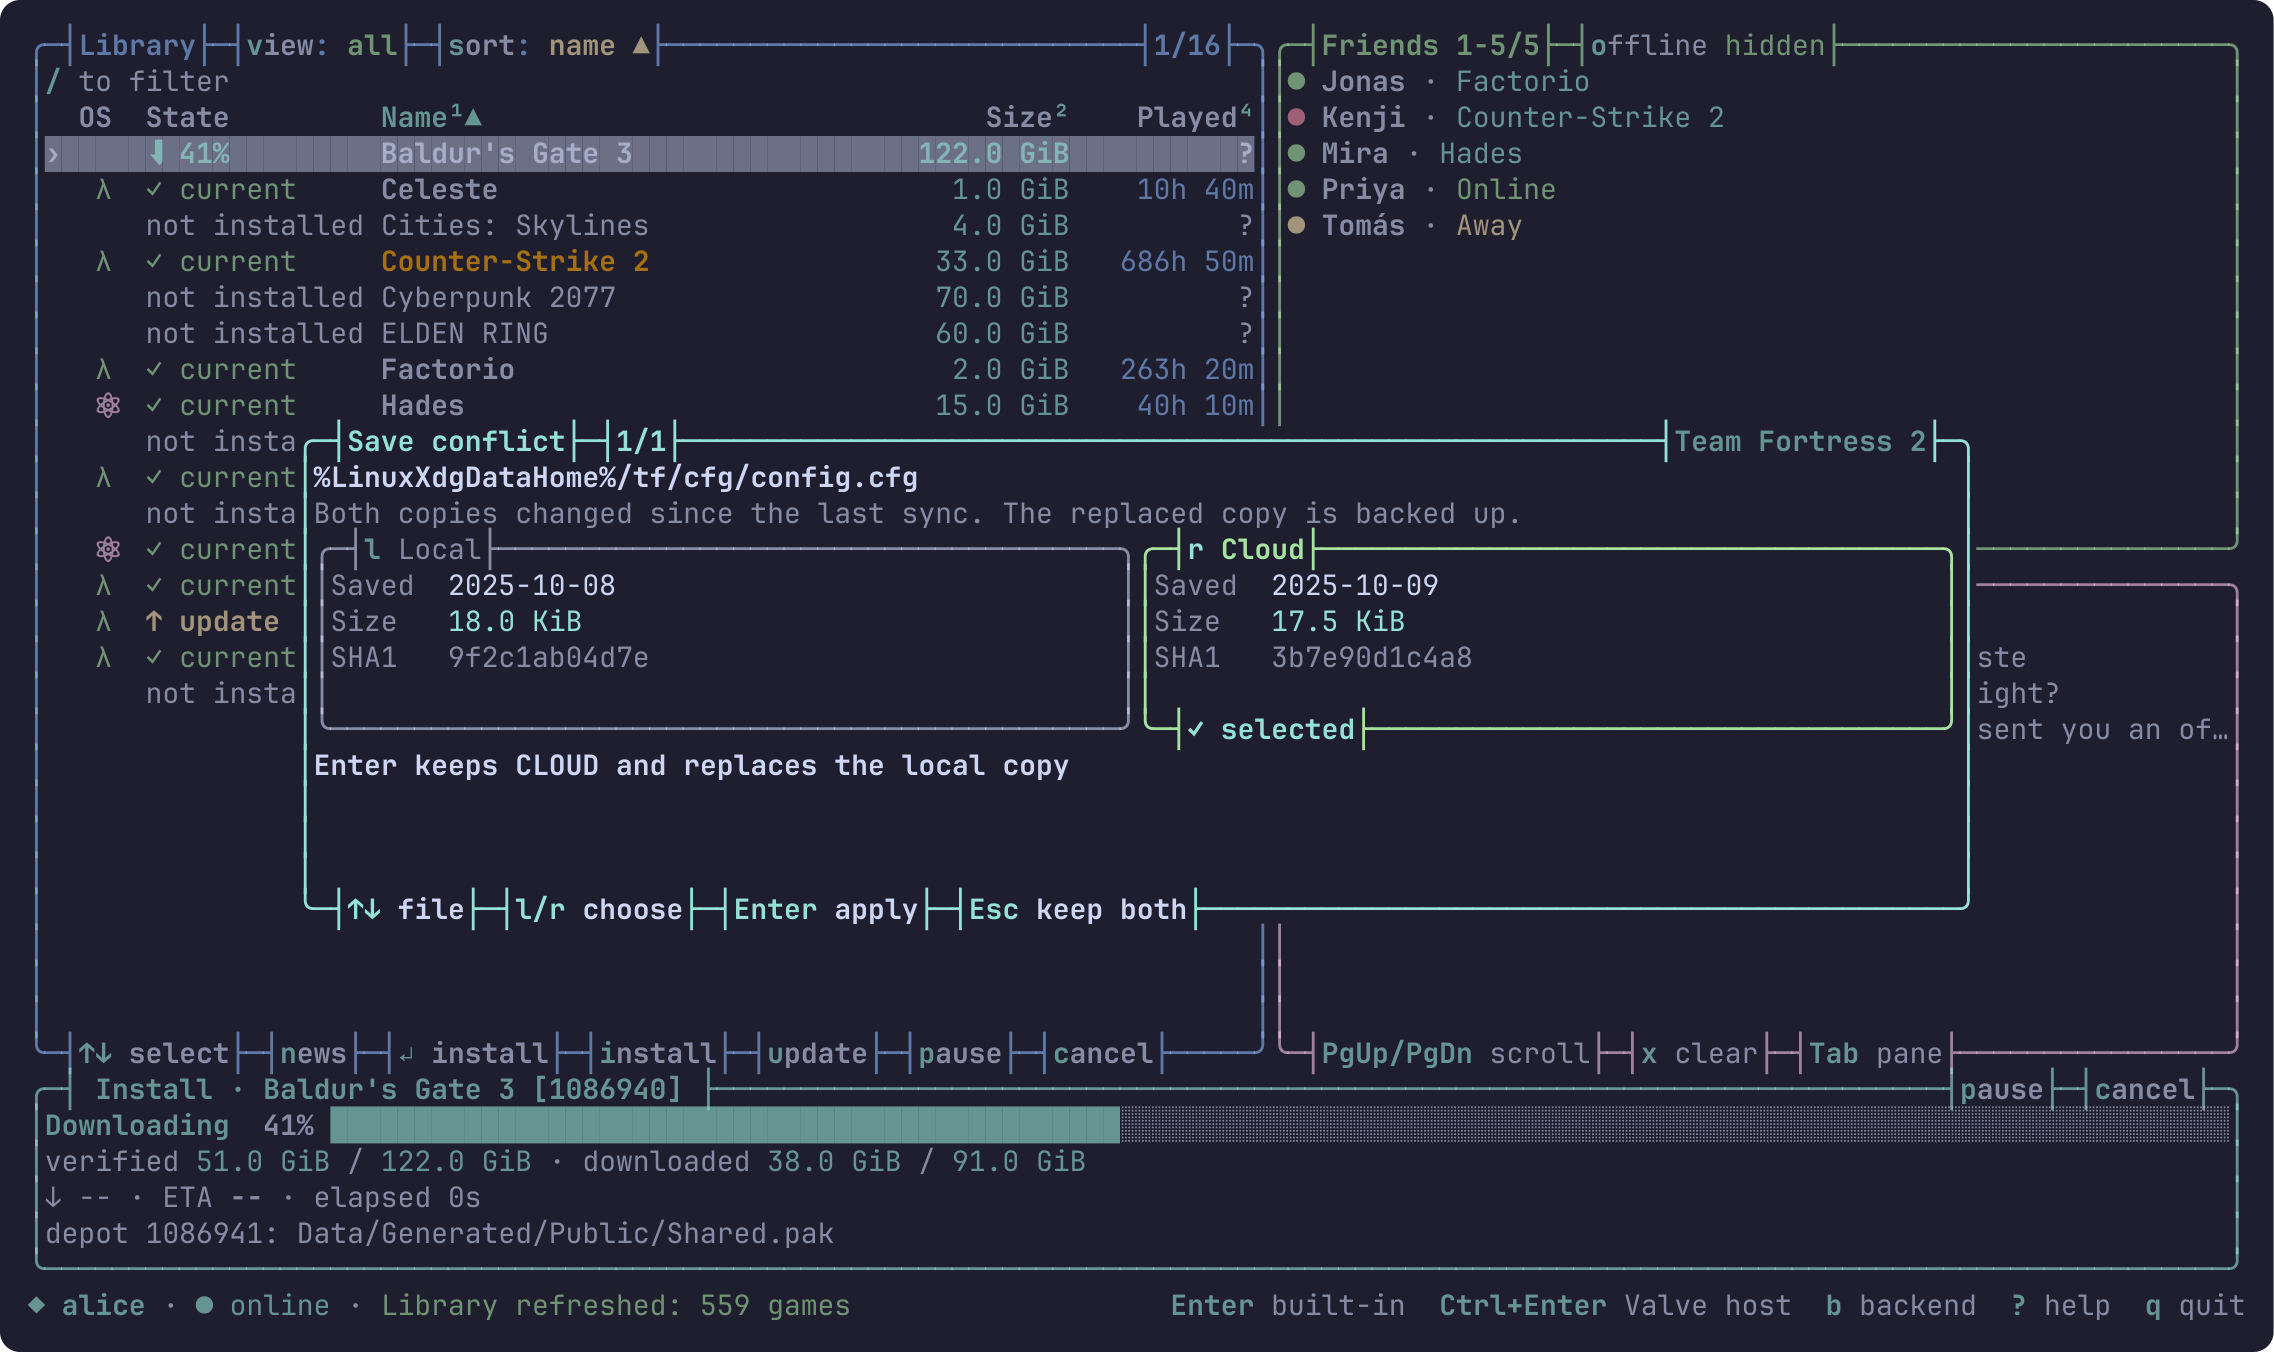
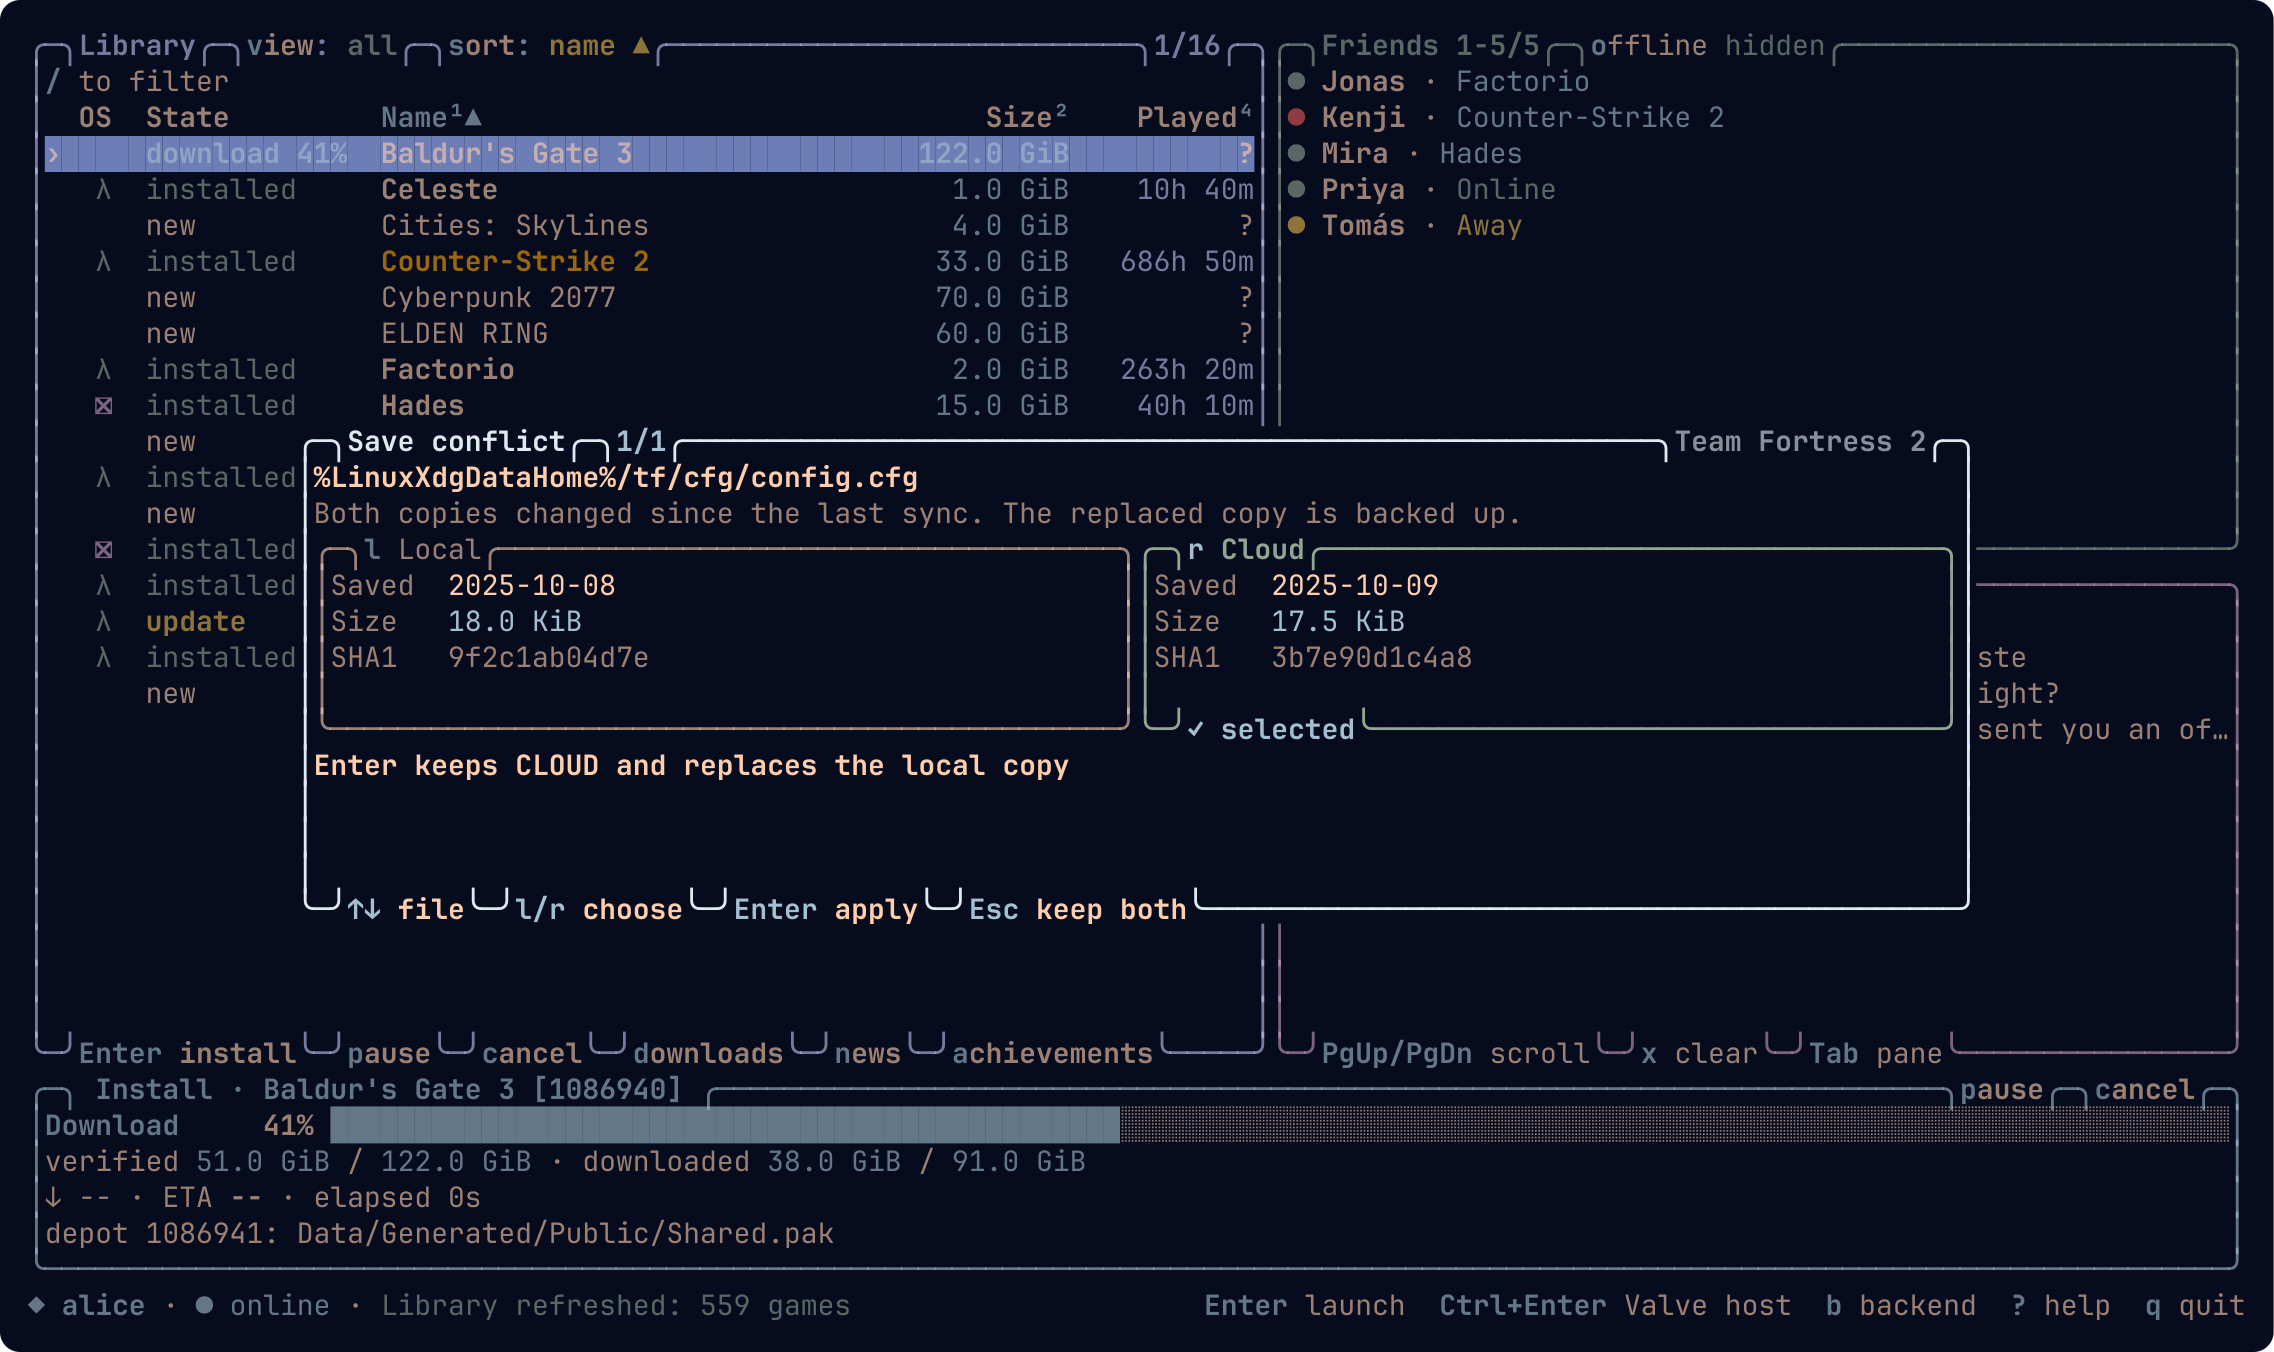
Regenerate README screenshots with the Omarchy theme palette

diff --git a/crates/steam-tui/src/tui/render.rs b/crates/steam-tui/src/tui/render.rs
@@ -3738,6 +3738,7 @@ mod tests {
     /// Draws a mock-data session for the README. Run with
     /// `STEAM_TUI_SCREENSHOT=out.svg cargo test -p steam-tui readme_screenshot -- --ignored`
     /// and convert with `rsvg-convert -z 2 out.svg -o assets/screenshot.png`.
+    /// Set `STEAM_TUI_SCREENSHOT_THEME` to a terminal theme (an Omarchy `alacritty.toml`) to colour it.
     #[test]
     #[ignore = "writes a file; run by hand"]
     fn readme_screenshot() {
@@ -4025,32 +4026,66 @@ mod tests {
         terminal.draw(|frame| draw(frame, &mut model)).unwrap();
         let buffer = terminal.backend().buffer();
 
+        // Colours come from a terminal theme so the picture matches the terminal it
+        // is meant to show: STEAM_TUI_SCREENSHOT_THEME=path/to/alacritty.toml (an
+        // Omarchy theme file). Without it the old Catppuccin palette is used.
+        let palette: std::collections::HashMap<String, String> =
+            std::env::var_os("STEAM_TUI_SCREENSHOT_THEME")
+                .and_then(|path| std::fs::read_to_string(path).ok())
+                .map(|text| {
+                    let mut section = String::new();
+                    let mut colors = std::collections::HashMap::new();
+                    for line in text.lines().map(str::trim) {
+                        if let Some(name) = line.strip_prefix('[').and_then(|l| l.strip_suffix(']'))
+                        {
+                            section = name.trim_start_matches("colors.").to_owned();
+                        } else if let Some((key, value)) = line.split_once('=') {
+                            let value = value.trim().trim_matches('"');
+                            if value.starts_with('#') {
+                                colors
+                                    .insert(format!("{section}.{}", key.trim()), value.to_owned());
+                            }
+                        }
+                    }
+                    colors
+                })
+                .unwrap_or_default();
+        let themed = |key: &str, fallback: &str| -> String {
+            palette
+                .get(key)
+                .cloned()
+                .unwrap_or_else(|| fallback.to_owned())
+        };
+        let (foreground, background) = (
+            themed("primary.foreground", "#cdd6f4"),
+            themed("primary.background", "#1e1e2e"),
+        );
         let rgb = |color: Color, default: &str| -> String {
             match color {
                 Color::Reset => default.into(),
-                Color::Black => "#45475a".into(),
-                Color::Red => "#f38ba8".into(),
-                Color::Green => "#a6e3a1".into(),
-                Color::Yellow => "#f9e2af".into(),
-                Color::Blue => "#89b4fa".into(),
-                Color::Magenta => "#f5c2e7".into(),
-                Color::Cyan => "#94e2d5".into(),
-                Color::Gray => "#bac2de".into(),
-                Color::DarkGray => "#6c7086".into(),
-                Color::LightRed => "#f38ba8".into(),
-                Color::LightGreen => "#a6e3a1".into(),
-                Color::LightYellow => "#f9e2af".into(),
-                Color::LightBlue => "#89b4fa".into(),
-                Color::LightMagenta => "#f5c2e7".into(),
-                Color::LightCyan => "#94e2d5".into(),
-                Color::White => "#cdd6f4".into(),
+                Color::Black => themed("normal.black", "#45475a"),
+                Color::Red => themed("normal.red", "#f38ba8"),
+                Color::Green => themed("normal.green", "#a6e3a1"),
+                Color::Yellow => themed("normal.yellow", "#f9e2af"),
+                Color::Blue => themed("normal.blue", "#89b4fa"),
+                Color::Magenta => themed("normal.magenta", "#f5c2e7"),
+                Color::Cyan => themed("normal.cyan", "#94e2d5"),
+                Color::Gray => themed("normal.white", "#bac2de"),
+                Color::DarkGray => themed("bright.black", "#6c7086"),
+                Color::LightRed => themed("bright.red", "#f38ba8"),
+                Color::LightGreen => themed("bright.green", "#a6e3a1"),
+                Color::LightYellow => themed("bright.yellow", "#f9e2af"),
+                Color::LightBlue => themed("bright.blue", "#89b4fa"),
+                Color::LightMagenta => themed("bright.magenta", "#f5c2e7"),
+                Color::LightCyan => themed("bright.cyan", "#94e2d5"),
+                Color::White => themed("bright.white", "#cdd6f4"),
                 Color::Rgb(r, g, b) => format!("#{r:02x}{g:02x}{b:02x}"),
                 Color::Indexed(_) => default.into(),
             }
         };
         let (cw, ch, pad) = (8.4f32, 18.0f32, 14.0f32);
         let mut svg = format!(
-            "<svg xmlns=\"http://www.w3.org/2000/svg\" width=\"{w}\" height=\"{h}\" viewBox=\"0 0 {w} {h}\" font-family=\"JetBrainsMono Nerd Font, Noto Sans Symbols, monospace\" font-size=\"14\">\n<rect width=\"100%\" height=\"100%\" rx=\"10\" fill=\"#1e1e2e\"/>\n",
+            "<svg xmlns=\"http://www.w3.org/2000/svg\" width=\"{w}\" height=\"{h}\" viewBox=\"0 0 {w} {h}\" font-family=\"JetBrainsMono Nerd Font, Noto Sans Symbols, monospace\" font-size=\"14\">\n<rect width=\"100%\" height=\"100%\" rx=\"10\" fill=\"{background}\"/>\n",
             w = width as f32 * cw + pad * 2.0,
             h = height as f32 * ch + pad * 2.0
         );
@@ -4059,10 +4094,10 @@ mod tests {
                 let cell = &buffer[(x, y)];
                 let style = cell.style();
                 let reversed = style.add_modifier.contains(Modifier::REVERSED);
-                let (fg, bg) = (rgb(cell.fg, "#cdd6f4"), rgb(cell.bg, "#1e1e2e"));
+                let (fg, bg) = (rgb(cell.fg, &foreground), rgb(cell.bg, &background));
                 let (fg, bg) = if reversed { (bg, fg) } else { (fg, bg) };
                 let (px, py) = (pad + x as f32 * cw, pad + y as f32 * ch);
-                if bg != "#1e1e2e" {
+                if bg != background {
                     svg.push_str(&format!("<rect x=\"{px:.1}\" y=\"{py:.1}\" width=\"{cw:.1}\" height=\"{ch:.1}\" fill=\"{bg}\"/>\n"));
                 }
                 let symbol = cell.symbol();

diff --git a/CHANGELOG.md b/CHANGELOG.md
@@ -2,18 +2,16 @@
 
 ## Unreleased
 
-### Changed
-- Panels, modals and overlays use btop's rounded corners again, and the title and hint segments on their borders are drawn as rounded notches (`╭─╮Library╭─╮`, `╰─╯news╰─╯`). The update queue and content overlays now share the other panels' style, with their key hints on the bottom border.
-- State labels are short words. The library State column shows `new`, `installed`, `update` or `blocked` (the old `? installed` and `! unavailable` are folded into `installed` and `blocked`), and live `download 42%`, `verify 97%`, `install 100%`, `paused 42%`. The Install panel names its phases Prepare, Download, Verify, Install and Done, keeps the phase visible while paused (`⏸ Download`), counts files rather than mixing files with bytes, and no longer colours a calm commit message as a warning. While files are being moved the panel says that cancel waits for the install. The update queue prints plain words (`queued`, `running`, `done`; policy `auto`, `on launch`, `manual`) instead of Rust debug names.
-- **Hotkeys were remapped; the old letters do nothing.** One table now drives key handling, the footers and the help screen. No letter has an upper-case twin with another meaning any more: `Enter` launches an installed game and installs a missing one (`i` is gone), `l` launches the installed version without updating (was `L` / Shift+Enter), `m` manages content (was `P`), `d` opens downloads (was `J`), `o` cycles launch options (was `O`), `z` pre-caches shaders (was `Z`), `y` syncs saves (was `C`), and `c` cancels the active job or, while a game is launching, skips shader processing (was `S`). `1`-`4` choose a sort and the active column's number reverses it (was `S`). Movement keys act on the focused pane; `o` (offline friends) and `x` (clear feed) only act in their own pane. Every overlay closes with `Esc`, `q` or its own key (`q` no longer quits from inside one) and shares `↑↓`/`jk`, `PgUp`/`PgDn` and `Home`/`End`. Footers show only the keys that apply to the selected game, and the status bar keeps `? help` and `q quit` on narrow terminals.
-- Installs and updates no longer re-hash every file after the download. Like Valve's client, the check before commit is a quick scan: every chunk must have been verified and staged (downloaded and checked, validated from disk by the resume scan, or copied from a hash-verified old file) and each staged file must exist with exactly its manifest size. Per-file fsyncs are replaced by one filesystem barrier. Set `STEAM_TUI_FULL_VERIFY=1` for the previous whole-file SHA1 check, which then runs as each file completes while later files still download.
-
 ## 0.3.2 - 2026-10-19
 
 ### Fixed
 - The commit phase of an install or update took hours on large games (about 6 files per second for Path of Exile 2 on btrfs) because every file move fsynced its directories. Moves are now made durable with one filesystem barrier per phase, the same for rollback and recovery, so the phase takes seconds to minutes. The write-ahead journal and its ordering guarantees are unchanged. The Committing phase also shows how many steps are done.
 
 ### Changed
+- Panels, modals and overlays use btop's rounded corners again, and the title and hint segments on their borders are drawn as rounded notches (`╭─╮Library╭─╮`, `╰─╯news╰─╯`). The update queue and content overlays now share the other panels' style, with their key hints on the bottom border.
+- State labels are short words. The library State column shows `new`, `installed`, `update` or `blocked` (the old `? installed` and `! unavailable` are folded into `installed` and `blocked`), and live `download 42%`, `verify 97%`, `install 100%`, `paused 42%`. The Install panel names its phases Prepare, Download, Verify, Install and Done, keeps the phase visible while paused (`⏸ Download`), counts files rather than mixing files with bytes, and no longer colours a calm commit message as a warning. While files are being moved the panel says that cancel waits for the install. The update queue prints plain words (`queued`, `running`, `done`; policy `auto`, `on launch`, `manual`) instead of Rust debug names.
+- **Hotkeys were remapped; the old letters do nothing.** One table now drives key handling, the footers and the help screen. No letter has an upper-case twin with another meaning any more: `Enter` launches an installed game and installs a missing one (`i` is gone), `l` launches the installed version without updating (was `L` / Shift+Enter), `m` manages content (was `P`), `d` opens downloads (was `J`), `o` cycles launch options (was `O`), `z` pre-caches shaders (was `Z`), `y` syncs saves (was `C`), and `c` cancels the active job or, while a game is launching, skips shader processing (was `S`). `1`-`4` choose a sort and the active column's number reverses it (was `S`). Movement keys act on the focused pane; `o` (offline friends) and `x` (clear feed) only act in their own pane. Every overlay closes with `Esc`, `q` or its own key (`q` no longer quits from inside one) and shares `↑↓`/`jk`, `PgUp`/`PgDn` and `Home`/`End`. Footers show only the keys that apply to the selected game, and the status bar keeps `? help` and `q quit` on narrow terminals.
+- Installs and updates no longer re-hash every file after the download. Like Valve's client, the check before commit is a quick scan: every chunk must have been verified and staged (downloaded and checked, validated from disk by the resume scan, or copied from a hash-verified old file) and each staged file must exist with exactly its manifest size. Per-file fsyncs are replaced by one filesystem barrier. Set `STEAM_TUI_FULL_VERIFY=1` for the previous whole-file SHA1 check, which then runs as each file completes while later files still download.
 - Transcoded media databases now live directly in `steamapps/shadercache/<app>`, the layout Valve's client uses, so either client reuses the other's download. Files from the old `fozmediav1` location are moved or removed, and a database already in place is adopted when its SHA-1 matches the bucket manifest.
 
 ## 0.3.1 - 2026-10-19
